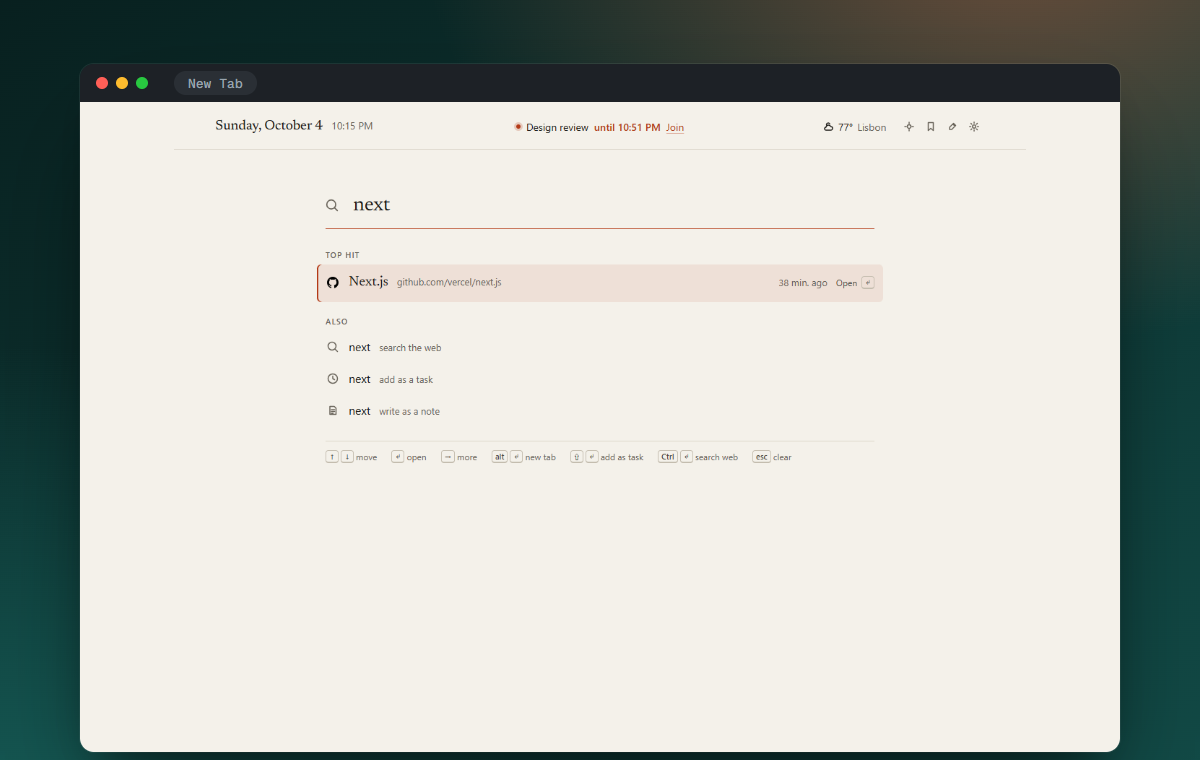
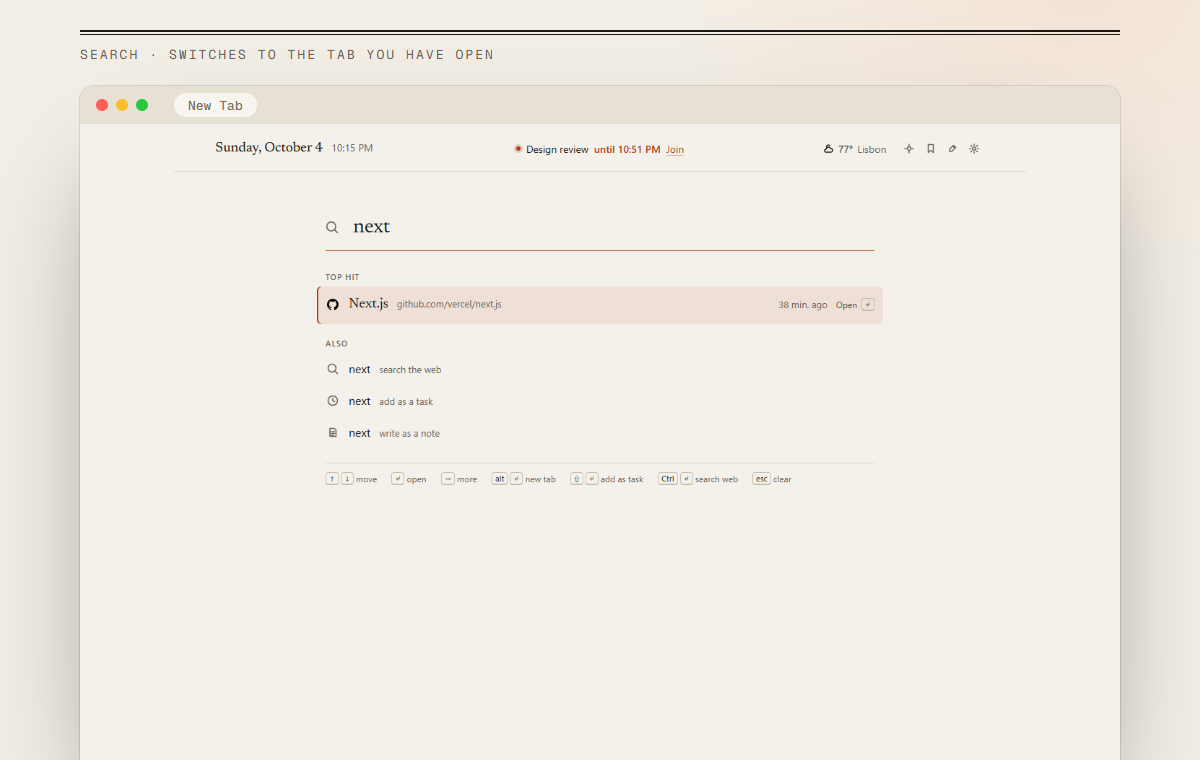
Update the README cover and copy

diff --git a/README.md b/README.md
@@ -1,64 +1,58 @@
 <picture>
   <source media="(prefers-color-scheme: dark)" srcset=".github/assets/cover-dark.png">
-  <img alt="LiveDash: the front page of your browser. One search line for the web, your tabs, history and bookmarks. Chrome MV3, keyboard-first, opt-in network, MIT." src=".github/assets/cover-light.png" width="100%">
+  <img alt="LiveDash, the front page of your browser: one search line for the web, your open tabs, history and bookmarks, and your day on one page" src=".github/assets/cover-light.png" width="100%">
 </picture>
 
 <p align="center">
-  <a href="https://github.com/Mahan-Imanian/LiveDash/actions/workflows/ci.yml"><img alt="CI status" src="https://img.shields.io/github/actions/workflow/status/Mahan-Imanian/LiveDash/ci.yml?branch=main&style=flat-square&label=CI"></a>
-  <a href="LICENSE"><img alt="MIT license" src="https://img.shields.io/badge/license-MIT-3d7bfd?style=flat-square"></a>
-  <img alt="Chrome 120 or newer, Manifest V3" src="https://img.shields.io/badge/Chrome-120%2B_·_MV3-155a55?style=flat-square">
-  <img alt="No account and no analytics" src="https://img.shields.io/badge/privacy-no_account_·_no_analytics-ff7a4d?style=flat-square">
+  <a href="https://github.com/Mahan-Imanian/LiveDash/actions/workflows/ci.yml"><img alt="CI status" src="https://img.shields.io/github/actions/workflow/status/Mahan-Imanian/LiveDash/ci.yml?branch=main&style=flat-square&label=CI&labelColor=1b1916"></a>
+  <a href="LICENSE"><img alt="MIT license" src="https://img.shields.io/badge/license-MIT-1b1916?style=flat-square"></a>
+  <img alt="Chrome 120 or newer" src="https://img.shields.io/badge/Chrome-120%2B-1b1916?style=flat-square">
+  <img alt="No account and no analytics" src="https://img.shields.io/badge/no_account-no_analytics-ff7a4d?style=flat-square&labelColor=1b1916">
 </p>
 
 <p align="center">
   <a href="#install"><b>Install</b></a> ·
-  <a href="#what-it-does">Features</a> ·
+  <a href="#search">Search</a> ·
+  <a href="#shortcut-keys">Shortcuts</a> ·
+  <a href="#today">Today</a> ·
   <a href="#keys">Keys</a> ·
-  <a href="#privacy-and-permissions">Privacy</a> ·
-  <a href="#development">Development</a>
+  <a href="#privacy">Privacy</a>
 </p>
 
 <br>
 
-<img alt="The LiveDash new tab in dark mode: a serif search line, a row of numbered shortcut keys, and three columns for Pick up, Today and Notes" src=".github/assets/showcase.png" width="100%">
+<img alt="The LiveDash new tab split down the middle, light theme on the left and dark on the right: date and next meeting at the top, the search line, numbered shortcut keys, then Pick up, Today and Notes" src=".github/assets/showcase.png" width="100%">
 
-One serif search line that reaches the web, your open tabs, history, bookmarks, shortcuts, tasks and notes. Shortcut keys you can group, drag and number. Beneath them, three quiet columns: what to pick up, what's on today, and your notes. There is no account, server or analytics, and LiveDash only goes online for your searches and the extras you switch on.
+A new tab should get you somewhere. LiveDash's search box knows which tabs you have open, what you visit at this hour and what you bookmarked, and ranks those above a web search. Under it sit the shortcuts you use most, what you closed by accident, today's tasks and meeting, and your notes. Nothing else.
 
-## What it does
+## Search
 
-### Search that knows your browser
-
-Type two letters and the top hit is the tab you already have open (it switches, never duplicates), the site you visit at this hour, or a bookmark. Addresses open. Everything else searches with the engine you choose, and site keywords like `yt jazz` or `w typography` go straight to that site. Type a task with a date and <kbd>⇧</kbd> <kbd>↵</kbd> files it under Today.
+Type two letters. If the page is already open in a tab, the top hit switches to it instead of opening a duplicate. Otherwise it's the site you usually visit at this hour, or a bookmark. A full address opens directly, `yt jazz` or `w typography` goes straight to that site, and anything else goes to the engine you chose. Type "call mom friday 6pm" and press <kbd>⇧</kbd> <kbd>↵</kbd> to file it as a task.
 
 <p align="center">
-  <img alt="Typing 'next' in search: the top hit is the GitHub tab already open, with search, task and note options below" src=".github/assets/f-search.png" width="49%">
+  <img alt="Typing 'next' in search: the top hit is the GitHub tab already open, with web search, task and note options below" src=".github/assets/f-search.png" width="49%">
   <img alt="A task with a natural-language date typed into the search line" src=".github/assets/f-quick-task.png" width="49%">
 </p>
 
-### Shortcut keys, better than tiles
+## Shortcut keys
 
-Up to 9 numbered keys (<kbd>Alt</kbd> <kbd>1</kbd>…<kbd>9</kbd>), plus as many more as you like. Group them as tabs, drag to reorder or drop onto a group, use your own icon or a coloured letter, and open a whole group as a Chrome tab group. No empty slots: when you have room, faded keys suggest sites from your history, and each one can be dismissed.
+Nine numbered keys, opened with <kbd>Alt</kbd> <kbd>1</kbd>…<kbd>9</kbd>, and as many unnumbered ones as you want. Sort them into groups, drag them around, give them your own icon or a coloured letter, and open a whole group as a Chrome tab group. Empty slots don't stay empty: LiveDash suggests sites from your history as faded keys, and you can dismiss any of them.
 
-### Your day on one page
+## Today
 
-**Pick up** shows tabs and windows you just closed, pages open on your other devices, and today's history minus the junk (search results, sign-in flows, error pages). **Today** shows your next meeting with a join link, then due, upcoming and repeating tasks with natural-language dates ("pay rent every month on the 1st", "call mom friday 6pm"); meetings appear once you paste your calendar's secret iCal link into **Settings → Calendar**. **Notes** lets you jot, pin and search.
+The next meeting with its join link sits at the top of the page once you paste your calendar's secret iCal link into **Settings → Calendar**. Below it are tasks written the way you'd say them, "pay rent every month on the 1st" or "call mom friday 6pm", with overdue ones marked, undo on every completion, and repeating ones rolling forward on their own. Next to it, **Pick up** lists tabs you closed, pages open on your other devices and today's history without the noise (search results, sign-in pages, errors), and **Notes** holds whatever you jotted.
 
-### Everything has a key
+## Everything else is one key away
 
-Press <kbd>></kbd> for every action: themes, focus, reopen, close duplicates, open a group as a tab group, export and more. Every list works with the keyboard alone, and <kbd>?</kbd> shows them all.
+<kbd>></kbd> opens a command list for themes, focus, reopening, closing duplicates and exporting. <kbd>?</kbd> shows every key. Weather, a focus timer and a picture of the day are there if you switch them on, and Customize covers light, dark or system, five accents, six paper tones, density, serif or sans headlines and a switch for every column.
 
 <p align="center">
-  <img alt="The command palette listing actions" src=".github/assets/f-commands.png" width="49%">
-  <img alt="Weather with current conditions, 12 hours and 5 days" src=".github/assets/f-weather.png" width="49%">
+  <img alt="The command list opened with the greater-than key" src=".github/assets/f-commands.png" width="49%">
+  <img alt="Weather with current conditions, the next 12 hours and 5 days" src=".github/assets/f-weather.png" width="49%">
 </p>
-
-### When you want them
-
-**Weather** for a city or your location, with 12 hours, 5 days and an offline state. **Focus mode**, a full-screen timer with 15, 25, 50 and 90-minute presets that keeps running when you leave. **Make it yours**: light, dark or system, five accents, six paper tones, the Wikipedia picture of the day or your own photo, comfortable or compact density, serif or sans headlines, and a switch for every column.
-
 <p align="center">
   <img alt="Focus mode: a full-screen timer with an intent line" src=".github/assets/f-focus.png" width="49%">
-  <img alt="The Customize panel with themes, accents, paper tones and backgrounds" src=".github/assets/f-customize.png" width="49%">
+  <img alt="The Customize panel: theme, accent, paper tone, background and layout switches" src=".github/assets/f-customize.png" width="49%">
 </p>
 
 ## Install
@@ -72,7 +66,7 @@ npm ci
 npm run build
 ```
 
-Open `chrome://extensions`, turn on **Developer mode**, choose **Load unpacked** and select `.output/chrome-mv3`. Open a new tab. `npm run zip` builds a packed copy at `.output/livedash-<version>-chrome.zip`.
+Open `chrome://extensions`, turn on **Developer mode**, choose **Load unpacked** and select `.output/chrome-mv3`, then open a new tab. `npm run zip` builds a packed copy at `.output/livedash-<version>-chrome.zip`.
 
 ## Keys
 
@@ -92,26 +86,26 @@ Open `chrome://extensions`, turn on **Developer mode**, choose **Load unpacked**
 
 Single-letter keys work when the cursor isn't in a text box. Press <kbd>Esc</kbd> first.
 
-## Privacy and permissions
+## Privacy
 
-No account, no server, no analytics, no remote code. Optional permissions are asked for in context and can be turned off in Settings. Without them, LiveDash still searches and keeps shortcuts, tasks and notes.
+No account, no server, no analytics, no remote code. Optional permissions are requested when you turn on the feature that needs them, and can be turned off again in Settings. Without any of them, LiveDash still searches and keeps your shortcuts, tasks and notes.
 
-| Permission | Why |
+| Permission | Used for |
 | --- | --- |
-| `storage` | Save shortcuts, tasks, notes and settings |
-| `search` | Send a search to Chrome's default engine |
-| `favicon` | Show site icons from Chrome's own cache |
-| `alarms` | End a focus session on time with no tab open |
+| `storage` | Shortcuts, tasks, notes and settings |
+| `search` | Sending a search to Chrome's default engine |
+| `favicon` | Site icons from Chrome's own cache |
+| `alarms` | Ending a focus session on time with no tab open |
 | `contextMenus` | "Save for later" and "Pin to LiveDash" on right-click |
-| `activeTab` | Read the current page's address for quick capture |
-| `history` (optional) | Rank results, suggest shortcuts, show today's history |
-| `tabs` (optional) | Switch to an open tab, close duplicates |
+| `activeTab` | The current page's address for quick capture |
+| `history` (optional) | Ranking results, suggesting shortcuts, today's history |
+| `tabs` (optional) | Switching to an open tab, closing duplicates |
 | `sessions` (optional) | Recently closed tabs, pages on your other devices |
-| `bookmarks` (optional) | Browse and search bookmarks |
-| `topSites` (optional) | Import your most visited sites as shortcuts, once |
-| `tabGroups` (optional) | Open a shortcut group as a tab group |
-| `notifications` (optional) | Say when a focus session ends |
-| `https://*/*` (optional) | Reach the hosts below, each asked for when you turn its feature on |
+| `bookmarks` (optional) | Browsing and searching bookmarks |
+| `topSites` (optional) | Importing your most visited sites as shortcuts, once |
+| `tabGroups` (optional) | Opening a shortcut group as a tab group |
+| `notifications` (optional) | Saying when a focus session ends |
+| `https://*/*` (optional) | The hosts below, each requested when you turn its feature on |
 
 Network requests, all opt-in and sent without cookies:
 
@@ -120,16 +114,12 @@ Network requests, all opt-in and sent without cookies:
 - **Calendar:** the iCal address you paste in, at most every 15 minutes.
 - **Searches** go to the engine you picked.
 
-Everything else stays in local extension storage, except settings: they use `chrome.storage.sync`, so Chrome copies them through your Google account when Chrome Sync is on. Details in [PRIVACY.md](PRIVACY.md).
+Everything else stays in local extension storage, except settings, which use `chrome.storage.sync` and so travel through your Google account when Chrome Sync is on. Details in [PRIVACY.md](PRIVACY.md).
 
 ## Development
 
-`npm run check` (type check, lint, unit tests) needs Node.js 22.18+, because the tests run TypeScript directly with `node --test`. `npm run dev` gives a live-reloading build. The project layout and ground rules are in [CONTRIBUTING.md](.github/CONTRIBUTING.md).
-
-## Origins
-
-LiveDash 1.x was built on a fork of [Widgetify](https://github.com/widgetify-app/widgetify-extension), an open-source new-tab extension released under the MIT License (© 2025 widgetify). The current version is a ground-up rewrite that shares no code with it. The original copyright notice is kept in [LICENSE](LICENSE), as the MIT License requires. Bundled third-party licenses, including the Newsreader typeface (SIL Open Font License), are in [public/THIRD_PARTY_NOTICES.txt](public/THIRD_PARTY_NOTICES.txt).
+`npm run check` runs the type check, lint and unit tests, and needs Node.js 22.18+ because the tests run TypeScript directly with `node --test`. `npm run dev` gives a live-reloading build. Project layout and ground rules are in [CONTRIBUTING.md](.github/CONTRIBUTING.md).
 
 ## License
 
-MIT. See [LICENSE](LICENSE).
+MIT, see [LICENSE](LICENSE). Bundled third-party licenses, including the Newsreader typeface (SIL Open Font License), are in [public/THIRD_PARTY_NOTICES.txt](public/THIRD_PARTY_NOTICES.txt).
